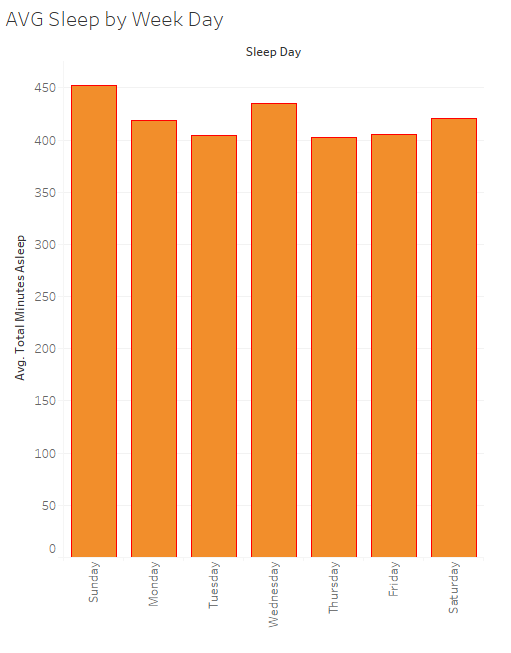
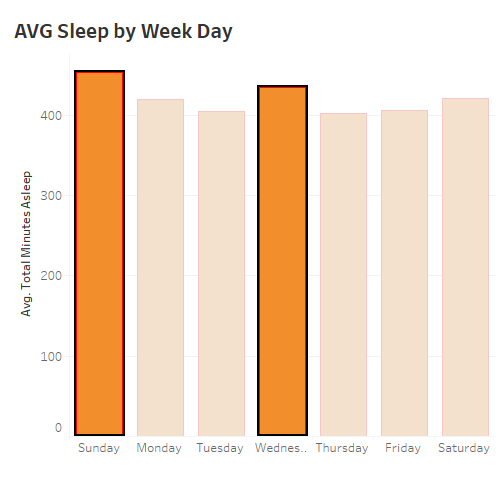
updating markdown

diff --git a/README.md b/README.md
@@ -42,7 +42,9 @@ That being said, the data has certain limitations:
 
 - One file, which contained data relating to the users' weight, contained only 8 unique IDs, and much of the data in that file was manually entered rather than being collected by the sensors in their FitBit devices.  For these reasons, that file cannot be considered reliable and its data was ultimately omitted from our analysis.
 
-### Data Cleaning
+- We don't have data on other important factors that may impact the users' sleep cycles.  A few of those factors might include age, chronic ailments or sleep disorders, and medications being taken by the users.
+
+## Data Cleaning
 
 - Upon inspection, many of the CSV files used non-uniform date-time formats, which would prove problematic when trying to import the files into a SQL database.  To correct this, I decided to use the Pandas library in Python to perform our initial data cleaning.  Here is an example of the script that was ran on each file:
 
@@ -59,7 +61,7 @@ That being said, the data has certain limitations:
 ![sql_query.png](https://github.com/ZeroDarkHardy/CASE-STUDY-Smart-Device-Fitness-Data/blob/main/images/sql_query.png)
 
 
-### Analyzing the Data in R
+## Analyzing the Data in R
 
 Before loading the dataset into R, the following R packages were installed/loaded:
 
@@ -99,7 +101,7 @@ The second plot sought to find a correlation between the amount of sedentary min
 
 Inspecting the points in the scatter plot, there appeared to be a number of extreme outlier values.
 
-## Identifying Outliers in the Data
+### Identifying Outliers in the Data
 
 Since it appeared that there could possibly be a relationship between the users' sedentary periods and the amount of sleep they got, I decided to remove extreme outliers in the data (possibly caused by the users removing their trackers without disabling them) and regenerate the plot.
 
@@ -139,13 +141,13 @@ Since the dataset included features for several levels of activity intensity (Li
 
 ![light_activity_cleaned.png](https://github.com/ZeroDarkHardy/CASE-STUDY-Smart-Device-Fitness-Data/blob/main/images/light_activity_cleaned.png)
 
-As you can see in the screenshot above, not every data feature produced meaningful correlation.  For comparison, I produced a chart lattice to compare the four data visualizations:
+As you can see in the screenshot above, not every data feature produced meaningful correlation.  In the plot above, we see that the correlation trend line is almost flat, telling us that there is no meaningful relation between the amount of users' light activity during the day and how much sleep they attain at night.  For comparison, I produced a chart lattice to compare the four data visualizations:
 
 ![chart_lattice.png](https://github.com/ZeroDarkHardy/CASE-STUDY-Smart-Device-Fitness-Data/blob/main/images/chart_lattice.png)
 
-When looking at the various levels of activity intensities, compared to the number of minutes of sleep the users enjoyed on those particular recording dates, the only factor that stood out was the number of minutes spent in a sedentary state.  When comparing these two metrics, a fairly significant negative correlation appears.  **This data suggests that the level of intensive activity isn't so much the driving factor behind getting more sleep, but rather the reduction of sedentary (screen) time**.
+When looking at the various levels of activity intensities, compared to the number of minutes of sleep the users enjoyed on those particular recording dates, the only factor that stood out was the number of minutes spent in a sedentary state.  A fairly significant negative correlation is visible between those two factors.  **This data suggests that the level of intensive activity isn't so much the driving factor behind getting more sleep, but rather the reduction of sedentary time**.  It's worth nothing that numerous "zero" values in the bottom two graphs are not null values, but simply represent days that specific users never exerted themselves past a "lightly active" level.
 
-### Most users are spending most of their time in a sedentary state
+### **Most users are spending most of their time in a sedentary state**
 
 Narrowing in on this factor, I decided to visualize what percentage of the users' average recorded activity was spent in a sedentary state.  The pie chart below, representing the average time spent in various levels of activity, was generated with the following R script (using data from the previous dataframes with outliers omitted):
 ```{r Activity Minutes by Type, echo=FALSE}
@@ -162,4 +164,37 @@ ggplot(percentages, aes(x="", y=minutes, fill=level)) + geom_bar(stat="identity"
 
 (An interactive version of the chart, with more granular labeling, can be found below in the related Tableau Story)
 
-As you can immediately see, most of the users are spending the majority (73.13%) of their time in a sedentary state.
+As you can immediately see, most of the users are spending the majority (73.13%) of their time in a sedentary state.  Most users spend at least a small amount of time per day in a "lightly active" state, but very few achieve "fairly" or "very active" states, or at least not for very long.
+
+### Strong negative correlation between sedentary minutes and sleep time
+
+Let's take a look at the days of the week that users are spending the most time (on average) in a sedentary state, and compare them to the average amount of sleep recorded on those nights.  The following charts were created in Tableau, and are accessible in the [Tableau Story] at the end of the analysis.
+
+![avg_sedentary_minutes_by_week_day.png](https://github.com/ZeroDarkHardy/CASE-STUDY-Smart-Device-Fitness-Data/blob/main/images/avg_sedentary_minutes_by_week_day.png)
+
+![avg_sleep_by_week_day.png](https://github.com/ZeroDarkHardy/CASE-STUDY-Smart-Device-Fitness-Data/blob/main/images/avg_sleep_by_week_day.png)
+
+The two bar charts, when compared, appear to reinforce the narrative that more sedentary time leads to less sleep.  On each day that we see an increased number of sedentary minutes, we see the number of minutes asleep fall.  We also see elevated periods of sedentary minutes from Monday to Friday of each week, suggesting that the majority of these sedentary minutes take place during the workday.
+
+### Average level of activity by hour of week day
+
+![avg_activity_by_weekday.png](https://github.com/ZeroDarkHardy/CASE-STUDY-Smart-Device-Fitness-Data/blob/main/images/avg_activity_by_weekday.png)
+
+The heatmap shown above shows the average activity intensities among users, per hour of each week day (with darker colors representing hightened intensity levels).  There appear to be higher than average levels of activity on Wednesdays (after 5pm) and on Saturday afternoons.  We also see average activity levels staying much lower for longer periods on Saturday and Sunday mornings, suggesting that the users are sleeping in (or at least not rushing off to work).  This may also suggest that the hightened number of sleeping minutes we observed on Sundays may be in the morning, not the evening, and may correlate to reduced sedentary time on Saturdays.
+
+
+## SUMMARY
+
+View the interactive Tableau story here: (tableau link)
+
+### Conclusions based on our analysis:
+
+- The majority of the users' recorded time was spent in a sedentary state (73.13%, with outliers omitted).  The majority of those sedentary minutes take place during standard work hours from Monday through Friday of each week.
+- On days when we observe higher than average amounts of time spent in hightened states of physical activity, we tend to observe more minutes of sleep that evening and the following morning.
+- While some minor correlations are observed between the levels of physical activity and the amount of sleep minutes, the strongest (negative) correlation is found in the number of sedentary minutes.  This implies that its less important that the users achieve a high intensity of physical activity, and more important that they simply remain sedentary for less time.  This begs a question for future analysis (with more data): Is the act of being sedentary the driving factor hindering sleep, or is a specific ***sedentary*** activity causing it (for example, time staring at a screen with a harsh lighting profile).
+
+### Marketing recommendations to client:
+
+- Since noticeable correlation exists between sedentary time and sleep time, Sleepr's new wellness tracker should heavily emphasize a sedentary (or "screen") timer.  The purpose of this timer would be to not only encourage the users to get up and stretch from time to time, but also to make them aware when they're approaching the maximum daily sedentary time before it starts impacting a healthy sleep cycle.  This threshold may vary from user to user, but our graphs seem to suggest that exceeding a maximum of 8 to 10 hours a day of "screen" time will adversely affect the respective user's sleep.
+
+- The majority of the proxied data shows that users spend most of their time in sedentary states, meaning its not necessarily fitness fanatics who are buying wellness trackers.  Many of these users may already be using the product to quantify how their habits are effecting their general wellness, but not all of them are wearing their trackers to bed (perhaps because its not comfortable, or they just need to charge the tracker).  Sleepr could emphasize the integration of wellness tracking sensors between their proposed bracelet trackers and their smart-beds, offering their users 24 hour sensory tracking for more complete analytics.
